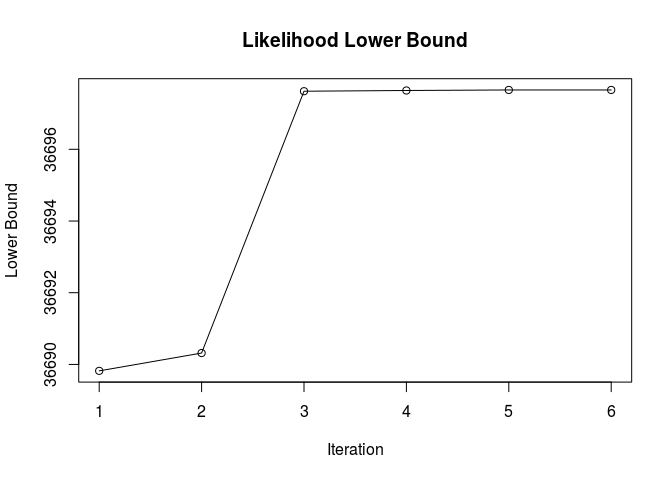
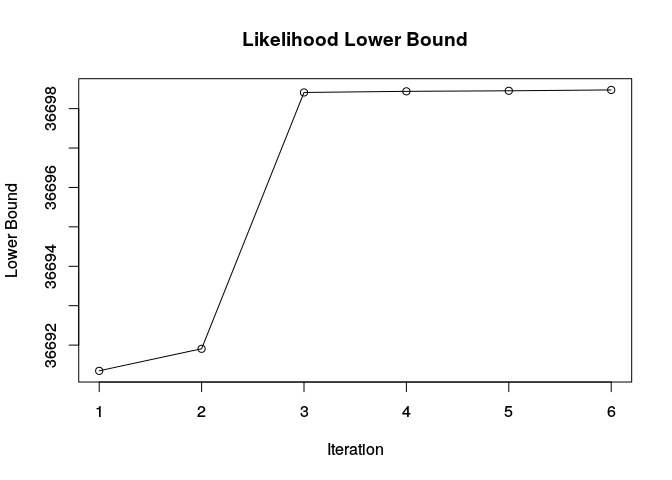
Update README with links to the html-version of the vignettes

diff --git a/README.md b/README.md
@@ -44,7 +44,8 @@ samplingPeriod = 0.001
 drift = "-x"
 diffusion = "sqrt(1.5)"
 x = simulate_sde(drift, diffusion, samplingPeriod = 0.001, tsLength = 20000)
-plot.ts(x, ylab = "x(t)", xlab = "Time t", main = "Ornstein–Uhlenbeck process")
+plot(seq(0, len = length(x), by = samplingPeriod), x, type = 'l',
+     ylab = "x(t)", xlab = "Time t", main = "Ornstein–Uhlenbeck process")
 ```
 
 <img src="README-figures/ornstein_example-1.png" style="display: block; margin: auto;" />
@@ -96,21 +97,18 @@ diffKer =  sde_kernel("exp_const_kernel",
 inference = sde_vi(targetIndex, x, samplingPeriod, pseudoInputs, 
                    driftKer, diffKer, diffParams$v)
 #> Starting Variational Inference
-#> Iteration 1| Distributions update | L = 36689.451
-#> Iteration 1| Hyperparameter optimization | L = 36689.964
-#> HP = 0.995 1.49 0.00205 1.5 -2.14 -1.65 -1.18 -0.7 -0.236 0.26 0.717 1.19 1.69 2.16 -0.851 
+#> Initial Lower Bound L = -59222.9
+#> Iteration 1| Distributions update | L = 36691.347
+#> Iteration 1| Hyperparameter optimization | L = 36691.906
+#> HP = 0.995 1.49 0.00219 1.5 -2.12 -1.63 -1.17 -0.682 -0.228 0.267 0.721 1.19 1.69 2.16 -0.824 
 #> 
-#> Iteration 2| Distributions update | L = 36697.556
-#> Iteration 2| Hyperparameter optimization | L = 36697.586
-#> HP = 0.998 1.51 0.00196 1.51 -2.14 -1.65 -1.18 -0.7 -0.236 0.26 0.716 1.19 1.69 2.16 -0.841 
+#> Iteration 2| Distributions update | L = 36698.411
+#> Iteration 2| Hyperparameter optimization | L = 36698.439
+#> HP = 0.997 1.51 0.00209 1.51 -2.12 -1.63 -1.17 -0.681 -0.227 0.267 0.721 1.19 1.69 2.16 -0.815 
 #> 
-#> Iteration 3| Distributions update | L = 36697.601
-#> Iteration 3| Hyperparameter optimization | L = 36697.624
-#> HP = 1 1.53 0.0019 1.52 -2.14 -1.65 -1.18 -0.7 -0.235 0.261 0.716 1.19 1.69 2.16 -0.83 
-#> 
-#> Iteration 4| Distributions update | L = 36697.639
-#> Iteration 4| Hyperparameter optimization | L = 36697.659
-#> HP = 1 1.55 0.00185 1.53 -2.14 -1.65 -1.18 -0.7 -0.235 0.261 0.716 1.19 1.69 2.16 -0.818 
+#> Iteration 3| Distributions update | L = 36698.454
+#> Iteration 3| Hyperparameter optimization | L = 36698.475
+#> HP = 1 1.53 0.00205 1.52 -2.12 -1.63 -1.17 -0.682 -0.227 0.267 0.721 1.19 1.69 2.16 -0.806 
 #> 
 #> CONVERGENCE
 # Analyze results  --------------------------------------------------------
@@ -166,8 +164,8 @@ vignette(vignetteName, package = 'voila')
 
 Currently, the following vignettes are available:
 
--   `'do_events'`: `voila` is applied for studying the Dansgaard-Oeschger (DO) events. The DO events are fast climate changes that occurred during the last glacial period.
--   `'multivariate_analysis'`: an example of how to use `voila` to study a multi-dimensional time series.
+-   `'do_events'`: `voila` is applied for studying the Dansgaard-Oeschger (DO) events. The DO events are fast climate changes that occurred during the last glacial period. The vignette can be seen [here](https://citiususc.github.io/voila/do_events.html).
+-   `'multivariate_analysis'`: an example of how to use `voila` to study a multi-dimensional time series. The vignette can be seen [here](https://citiususc.github.io/voila/multivariate_analysis.html).
 
 License
 -------
